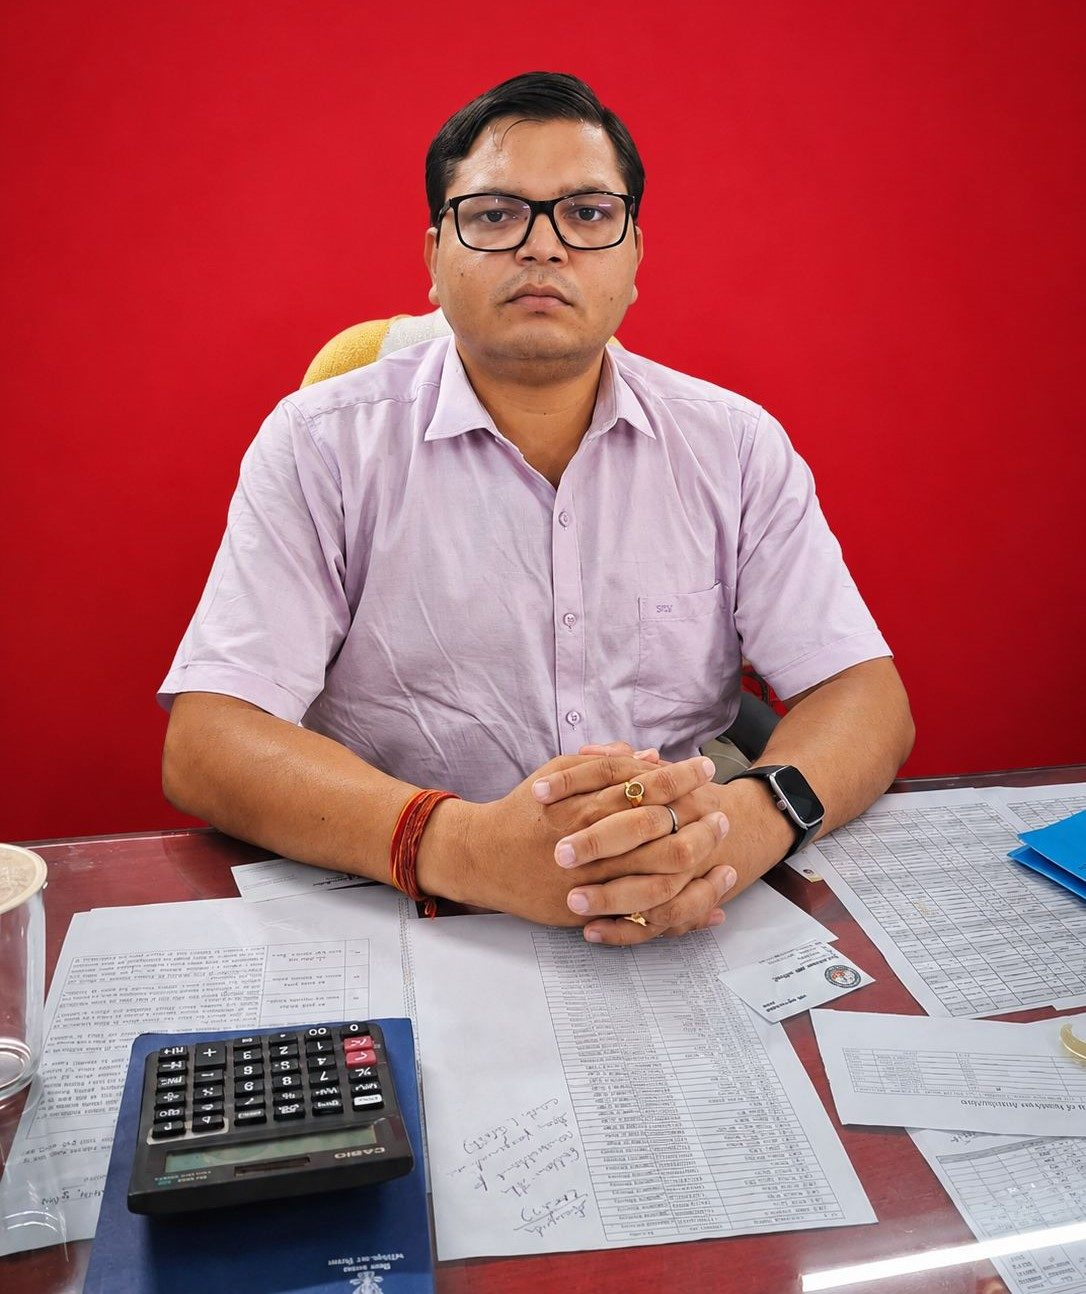
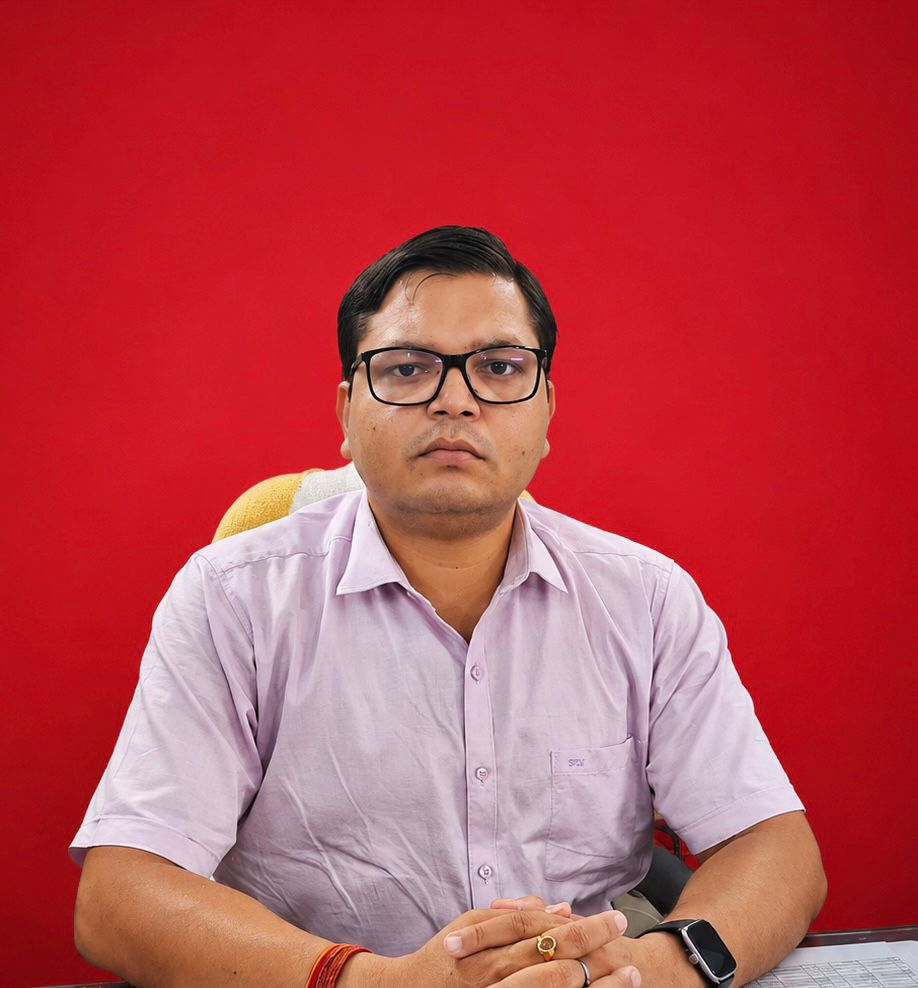
images updated

diff --git a/resources/views/index.blade.php b/resources/views/index.blade.php
@@ -119,6 +119,18 @@
         <div class="members-track" data-stagger data-members-track>
           <article class="member-card">
             <div class="member-img">
+              <img src="{{ asset('assets/img/members/navin_ GSBAB.jpeg') }}"
+                alt="Navin Kumar Singh, Chief Patron">
+            </div>
+            <div class="member-info">
+              <h3>Navin Kumar Singh</h3>
+              <span class="role">Chief Patron, GSBAB</span>
+            </div>
+          </article>
+
+          {{--
+          <article class="member-card">
+            <div class="member-img">
               <img src="{{ asset('assets/img/members/Sumit Kumar_Chairman GSBAB.jpeg') }}" alt="Sumit Kumar, Chairman">
             </div>
             <div class="member-info">
@@ -126,6 +138,7 @@
               <span class="role">Chairman, GSBAB</span>
             </div>
           </article>
+          --}}
 
           <article class="member-card">
             <div class="member-img">
@@ -166,6 +179,39 @@
             <div class="member-info">
               <h3>Gaurav Kumar</h3>
               <span class="role">Treasurer, GSBAB</span>
+            </div>
+          </article>
+
+          <article class="member-card">
+            <div class="member-img">
+              <img src="{{ asset('assets/img/members/Rakesh_ranjan_joint_secretary GSBAB.jpeg') }}"
+                alt="Rakesh Ranjan, Joint Secretary">
+            </div>
+            <div class="member-info">
+              <h3>Rakesh Ranjan</h3>
+              <span class="role">Joint Secretary, GSBAB</span>
+            </div>
+          </article>
+
+          <article class="member-card">
+            <div class="member-img">
+              <img src="{{ asset('assets/img/members/VIKKI KUMAR JOINT SECRETARY GSBAB.jpeg') }}"
+                alt="Vikki Kumar, Joint Secretary">
+            </div>
+            <div class="member-info">
+              <h3>Vikki Kumar</h3>
+              <span class="role">Joint Secretary, GSBAB</span>
+            </div>
+          </article>
+
+          <article class="member-card">
+            <div class="member-img">
+              <img src="{{ asset('assets/img/members/rituKumari.jpeg') }}"
+                alt="Ritu Kumari, Vice President">
+            </div>
+            <div class="member-info">
+              <h3>Ritu Kumari</h3>
+              <span class="role">Vice President, GSBAB</span>
             </div>
           </article>
         </div>